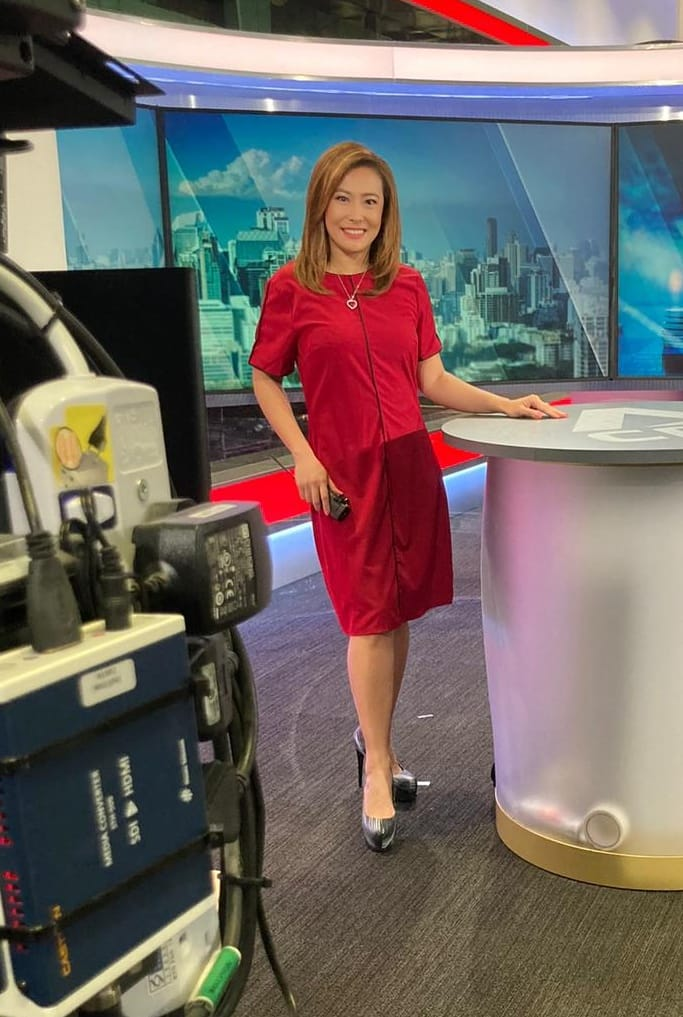
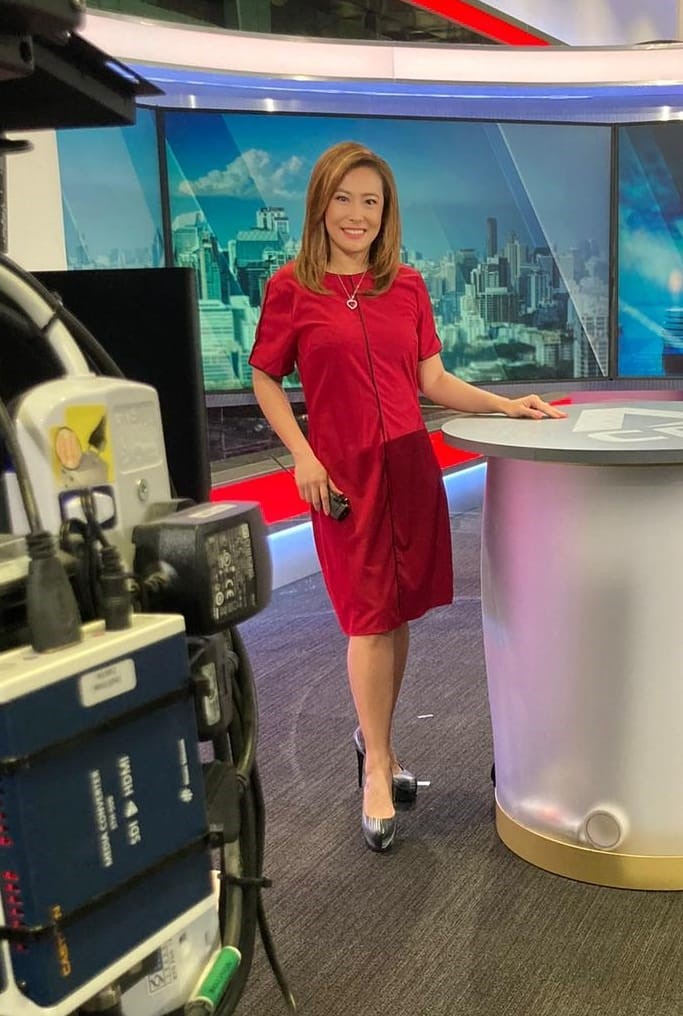
resize testimonials

diff --git a/pages/testimonials.html b/pages/testimonials.html
@@ -168,7 +168,7 @@
               </div>
             </div>
             <div class="col-6 col-md-3 isotope-item interior">
-              <div class="hoverbox rounded overflow-hidden" data-zanim-xs='{"animation":"zoom-in","delay":0.2}'><img class="w-100 fit-cover" src="../assets/img/gallery/Olivia-2.jpeg" alt="" />
+              <div class="hoverbox rounded overflow-hidden" data-zanim-xs='{"animation":"zoom-in","delay":0.2}'><img class="w-100 fit-cover" src="../assets/img/gallery/Olivia-testimonial.jpeg" alt="" />
                 <div class="hoverbox-content bg-dark d-flex flex-center text-center">
                   <div class="px-4">
                     <h5 class="text-white">Olivia Marzuki</h5><a class="btn btn-outline-light btn-xs mt-3" href="../pages/successstories06.html">learn more</a>
